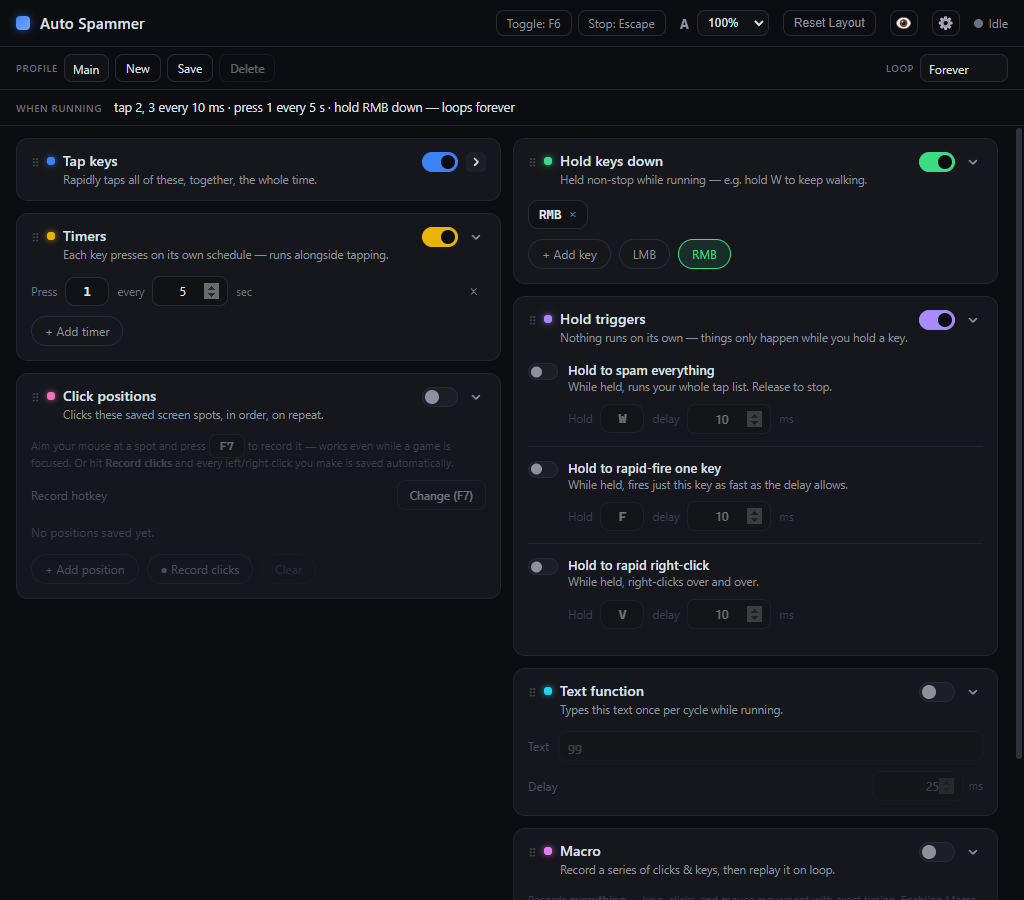
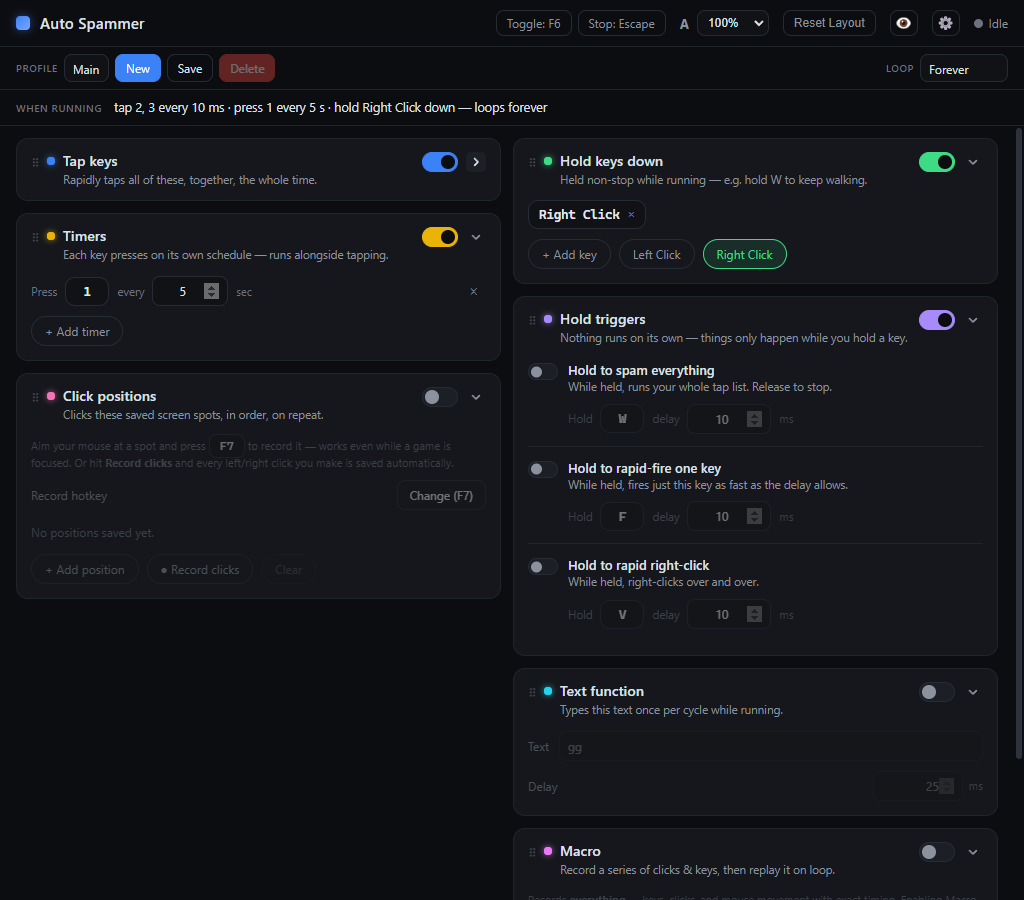
Tap keys checkboxes, Left/Right Click labels, colored profile buttons
- Removed the "Delay between taps" input and "One key at a time
  (sequence)" switch from Tap keys; the default delay (10 ms) and any
  saved sequence setting still apply internally.
- The Space / LMB / RMB quick-add chips are now labelled checkboxes
  (Space, Left Click, Right Click) that add/remove those from the tap
  list; state persists per profile as before.
- Renamed the LMB/RMB display labels to "Left Click" / "Right Click"
  app-wide (chips, key labels, summary bar, conflict messages) — the
  stored mouse-left/mouse-right values are unchanged, so saved profiles
  load as-is.
- Profile bar: New is now the blue primary button and Delete the red
  danger button.
- Bump to 1.34.0.

diff --git a/tests/e2e/app.spec.ts b/tests/e2e/app.spec.ts
@@ -89,29 +89,20 @@ test('Tap keys: seeded keys, adding a key updates the summary live', async () =>
   await expect(win.locator('.summarybar')).toContainText('R')
 })
 
-test('Tap keys: Space / LMB / RMB quick-add chips toggle and highlight', async () => {
+test('Tap keys: Space / Left Click / Right Click checkboxes add to the spam list', async () => {
   const keys = section('Tap keys')
-  for (const name of ['Space', 'LMB', 'RMB']) {
-    const chip = keys.getByRole('button', { name, exact: true })
-    await expect(chip).not.toHaveClass(/chipbtn--on/)
-    await chip.click()
-    await expect(chip).toHaveClass(/chipbtn--on/)
-    await chip.click()
-    await expect(chip).not.toHaveClass(/chipbtn--on/)
+  for (const name of ['Space', 'Left Click', 'Right Click']) {
+    const box = keys.locator('.check', { hasText: name }).locator('input')
+    await expect(box).not.toBeChecked()
+    await box.check()
+    await expect(win.locator('.summarybar')).toContainText(name)
+    await box.uncheck()
+    await expect(box).not.toBeChecked()
   }
-})
-
-test('Tap keys: delay + "One key at a time (sequence)" switch', async () => {
-  const keys = section('Tap keys')
-  const optionrow = keys.locator('.optionrow')
-  await expect(optionrow).toContainText('Delay between taps')
-  await expect(optionrow.locator('input[type="number"]')).toHaveValue('10')
-
-  const seq = optionrow.locator('.section__toggle input')
-  await expect(seq).not.toBeChecked()
-  await seq.check()
-  await expect(win.locator('.summarybar')).toContainText('one at a time')
-  await seq.uncheck()
+  // The old "Delay between taps" row and sequence switch are gone.
+  await expect(keys.locator('.optionrow')).toHaveCount(0)
+  await expect(keys.getByText('Delay between taps')).toHaveCount(0)
+  await expect(keys.getByText('One key at a time (sequence)')).toHaveCount(0)
 })
 
 test('Timers: + Add timer adds a Press/every row', async () => {
@@ -131,7 +122,7 @@ test('Timers: + Add timer adds a Press/every row', async () => {
   await expect(rows).toHaveCount(before)
 })
 
-test('Hold keys down: add-key row, LMB/RMB chips add and remove held buttons', async () => {
+test('Hold keys down: add-key row, Left/Right Click chips add and remove held buttons', async () => {
   const hold = section('Hold keys down')
   const rows = hold.locator('.keyrow')
   const before = await rows.count()
@@ -143,14 +134,15 @@ test('Hold keys down: add-key row, LMB/RMB chips add and remove held buttons', a
   await expect(newKey).toHaveValue('w')
   await expect(win.locator('.summarybar')).toContainText('hold W down')
 
-  // LMB quick chip adds a removable chip and highlights; clicking again removes.
-  const lmb = hold.getByRole('button', { name: 'LMB', exact: true })
+  // The Left Click quick chip adds a removable chip and highlights; clicking
+  // again removes it.
+  const lmb = hold.getByRole('button', { name: 'Left Click', exact: true })
   await lmb.click()
   await expect(lmb).toHaveClass(/chipbtn--on/)
-  await expect(hold.locator('.keychip--removable', { hasText: 'LMB' })).toBeVisible()
+  await expect(hold.locator('.keychip--removable', { hasText: 'Left Click' })).toBeVisible()
   await lmb.click()
   await expect(lmb).not.toHaveClass(/chipbtn--on/)
-  await expect(hold.locator('.keychip--removable', { hasText: 'LMB' })).toHaveCount(0)
+  await expect(hold.locator('.keychip--removable', { hasText: 'Left Click' })).toHaveCount(0)
 
   // Remove the added key row again.
   await rows.last().locator('.rowx').click()
@@ -245,6 +237,11 @@ test('the Profile toolbar is a dropdown with New / Save / Delete (no Rename)', a
     await expect(profile.getByRole('button', { name, exact: true })).toBeVisible()
   }
   await expect(profile.getByRole('button', { name: 'Rename', exact: true })).toHaveCount(0)
+  // New is the accent/primary action; Delete is the danger action.
+  await expect(profile.getByRole('button', { name: 'New', exact: true })).toHaveClass(/btn--primary/)
+  await expect(profile.getByRole('button', { name: 'Delete', exact: true })).toHaveClass(
+    /btn--danger/
+  )
   await expect(profile.locator('select option')).toContainText(['Default'])
 })
 

diff --git a/src/renderer/src/components/TapKeysCard.tsx b/src/renderer/src/components/TapKeysCard.tsx
@@ -80,55 +80,33 @@ export function TapKeysCard(): JSX.Element {
         >
           {recording ? '● Stop recording' : 'Record'}
         </button>
-        <button
-          type="button"
-          className={`chipbtn${o.spacebar ? ' chipbtn--on' : ''}`}
-          title="Also tap the spacebar"
-          onClick={() => patchOptions({ spacebar: !o.spacebar })}
-        >
-          Space
-        </button>
-        <button
-          type="button"
-          className={`chipbtn${o.leftClick ? ' chipbtn--on' : ''}`}
-          title="Also tap the left mouse button"
-          onClick={() => patchOptions({ leftClick: !o.leftClick })}
-        >
-          LMB
-        </button>
-        <button
-          type="button"
-          className={`chipbtn${o.rightClick ? ' chipbtn--on' : ''}`}
-          title="Also tap the right mouse button"
-          onClick={() => patchOptions({ rightClick: !o.rightClick })}
-        >
-          RMB
-        </button>
       </div>
 
-      <div className="optionrow">
-        <span className="optionrow__label">Delay between taps</span>
-        <input
-          className="input keyrow__delay"
-          type="number"
-          min={0}
-          value={o.defaultDelayMs}
-          onChange={(e) =>
-            patchOptions({ defaultDelayMs: Math.max(0, Number(e.target.value) || 0) })
-          }
-        />
-        <span className="keyrow__unit">ms</span>
-        <span className="optionrow__gap" />
-        <span className="switchlabel">
-          <SectionToggle
-            small
-            checked={o.sequenceMode}
-            onChange={(v) => patchOptions({ sequenceMode: v })}
-            label="One key at a time (sequence)"
-            title="Fire the keys one at a time instead of all together"
+      <div className="keylist__actions">
+        <label className="check" title="Also tap the spacebar">
+          <input
+            type="checkbox"
+            checked={o.spacebar}
+            onChange={(e) => patchOptions({ spacebar: e.target.checked })}
           />
-          <span>One key at a time (sequence)</span>
-        </span>
+          <span>Space</span>
+        </label>
+        <label className="check" title="Also tap the left mouse button">
+          <input
+            type="checkbox"
+            checked={o.leftClick}
+            onChange={(e) => patchOptions({ leftClick: e.target.checked })}
+          />
+          <span>Left Click</span>
+        </label>
+        <label className="check" title="Also tap the right mouse button">
+          <input
+            type="checkbox"
+            checked={o.rightClick}
+            onChange={(e) => patchOptions({ rightClick: e.target.checked })}
+          />
+          <span>Right Click</span>
+        </label>
       </div>
     </Section>
   )

diff --git a/src/renderer/src/styles.css b/src/renderer/src/styles.css
@@ -843,7 +843,7 @@ button.keychip:hover,
   flex-wrap: wrap;
 }
 
-/* Pill buttons: "+ Add key" and the Space / LMB / RMB quick-add chips. */
+/* Pill buttons: "+ Add key" and the Left/Right Click quick-add chips. */
 .chipbtn {
   padding: 6px 13px;
   border-radius: 999px;
@@ -873,39 +873,6 @@ button.keychip:hover,
   color: #ffb3ac;
   border-color: var(--red);
   animation: recording-pulse 1.1s ease-in-out infinite;
-}
-
-/* Bottom option row of the Tap keys card: delay + sequence switch. */
-.optionrow {
-  display: flex;
-  align-items: center;
-  gap: 8px;
-  flex-wrap: wrap;
-  margin-top: 2px;
-  padding-top: 12px;
-  border-top: 1px solid var(--border-soft);
-}
-.optionrow__label {
-  color: var(--text-dim);
-  font-size: 12.5px;
-  white-space: nowrap;
-}
-.optionrow__gap {
-  flex: 1 1 auto;
-}
-.optionrow .keyrow__delay {
-  flex-basis: 76px;
-}
-
-/* Labelled inline switch, e.g. "One key at a time (sequence)". */
-.switchlabel {
-  display: inline-flex;
-  align-items: center;
-  gap: 8px;
-  font-size: 12.5px;
-  color: var(--text-dim);
-  cursor: pointer;
-  white-space: nowrap;
 }
 
 /* ---------- Timers rows ---------- */

diff --git a/src/renderer/src/components/ProfileBar.tsx b/src/renderer/src/components/ProfileBar.tsx
@@ -28,7 +28,7 @@ export function ProfileBar(): JSX.Element {
       </select>
       <button
         type="button"
-        className="btn btn--ghost subbar__btn"
+        className="btn btn--primary subbar__btn"
         title="New profile"
         onClick={() => void createProfile('')}
       >
@@ -44,7 +44,7 @@ export function ProfileBar(): JSX.Element {
       </button>
       <button
         type="button"
-        className="btn btn--ghost subbar__btn"
+        className="btn btn--danger subbar__btn"
         title="Delete profile"
         disabled={data.profiles.length <= 1}
         onClick={() => void deleteProfile(activeProfile.id)}

diff --git a/src/renderer/src/components/SummaryBar.tsx b/src/renderer/src/components/SummaryBar.tsx
@@ -20,8 +20,8 @@ export function SummaryBar(): JSX.Element | null {
     const keys = [
       ...p.entries.map((e) => (e.kind === 'key' ? (e.key.trim() ? prettyName(e.key) : '') : prettyName(e.kind))),
       ...(p.options.spacebar ? ['Space'] : []),
-      ...(p.options.leftClick ? ['LMB'] : []),
-      ...(p.options.rightClick ? ['RMB'] : [])
+      ...(p.options.leftClick ? ['Left Click'] : []),
+      ...(p.options.rightClick ? ['Right Click'] : [])
     ].filter(Boolean)
     if (keys.length > 0) {
       const seq = p.options.sequenceMode ? ', one at a time' : ''

diff --git a/src/renderer/src/components/HoldKeysCard.tsx b/src/renderer/src/components/HoldKeysCard.tsx
@@ -91,7 +91,7 @@ export function HoldKeysCard(): JSX.Element {
           title="Hold the left mouse button"
           onClick={() => toggleMouse('mouse-left')}
         >
-          LMB
+          Left Click
         </button>
         <button
           type="button"
@@ -99,7 +99,7 @@ export function HoldKeysCard(): JSX.Element {
           title="Hold the right mouse button"
           onClick={() => toggleMouse('mouse-right')}
         >
-          RMB
+          Right Click
         </button>
       </div>
     </Section>

diff --git a/tests/unit/keycapture.test.ts b/tests/unit/keycapture.test.ts
@@ -46,8 +46,8 @@ describe('keycapture — prettyName', () => {
     expect(prettyName('-')).toBe('-')
     expect(prettyName('a')).toBe('A')
     expect(prettyName('numpad5')).toBe('Numpad 5')
-    expect(prettyName('mouse-left')).toBe('LMB')
-    expect(prettyName('mouse-right')).toBe('RMB')
+    expect(prettyName('mouse-left')).toBe('Left Click')
+    expect(prettyName('mouse-right')).toBe('Right Click')
     expect(prettyName('mouse-4')).toBe('MB4')
     expect(prettyName('mouse-5')).toBe('MB5')
   })

diff --git a/tests/unit/bindings.test.ts b/tests/unit/bindings.test.ts
@@ -82,7 +82,7 @@ describe('conflictMessage', () => {
 
   it('adapts the wording for mouse buttons', () => {
     expect(conflictMessage('mouse-left', 'Hold-to-Spam Key')).toBe(
-      'LMB is already bound to Hold-to-Spam Key'
+      'Left Click is already bound to Hold-to-Spam Key'
     )
     expect(conflictMessage('mouse-4', 'Focus Hold Key')).toBe(
       'MB4 is already bound to Focus Hold Key'

diff --git a/src/renderer/src/keycapture.ts b/src/renderer/src/keycapture.ts
@@ -139,8 +139,8 @@ export function toMouseName(e: MouseEvent): string | null {
 }
 
 const MOUSE_LABELS: Record<string, string> = {
-  'mouse-left': 'LMB',
-  'mouse-right': 'RMB',
+  'mouse-left': 'Left Click',
+  'mouse-right': 'Right Click',
   'mouse-middle': 'MMB',
   'mouse-4': 'MB4',
   'mouse-5': 'MB5'

diff --git a/src/shared/bindings.ts b/src/shared/bindings.ts
@@ -143,8 +143,8 @@ export function findBindingConflict(
 }
 
 const MOUSE_LABELS: Record<string, string> = {
-  'mouse-left': 'LMB',
-  'mouse-right': 'RMB',
+  'mouse-left': 'Left Click',
+  'mouse-right': 'Right Click',
   'mouse-middle': 'MMB',
   'mouse-4': 'MB4',
   'mouse-5': 'MB5'

diff --git a/README.md b/README.md
@@ -19,7 +19,7 @@
 
 <!-- DOWNLOAD BUTTONS -->
 <p align="center">
-  <a href="https://github.com/Scarmonit/AutoSpammer/releases/latest/download/AutoSpammer-Portable-1.33.0.exe">
+  <a href="https://github.com/Scarmonit/AutoSpammer/releases/latest/download/AutoSpammer-Portable-1.34.0.exe">
     <img src="https://img.shields.io/badge/Download%20Latest%20Version-Windows-3b82f6?style=for-the-badge&logo=windows&logoColor=white" alt="Download Latest Version (Windows)" height="46" />
   </a>
   &nbsp;
@@ -40,8 +40,8 @@ No setup or extra tools required — each option is a single file you just run.
 
 | Option | Best for | File |
 | --- | --- | --- |
-| **Portable** | Easiest — just run it. Nothing is installed. | **[AutoSpammer-Portable-1.33.0.exe](https://github.com/Scarmonit/AutoSpammer/releases/latest/download/AutoSpammer-Portable-1.33.0.exe)** |
-| **Installer** | Adds Desktop and Start-menu shortcuts. | **[AutoSpammer-Setup-1.33.0.exe](https://github.com/Scarmonit/AutoSpammer/releases/latest/download/AutoSpammer-Setup-1.33.0.exe)** |
+| **Portable** | Easiest — just run it. Nothing is installed. | **[AutoSpammer-Portable-1.34.0.exe](https://github.com/Scarmonit/AutoSpammer/releases/latest/download/AutoSpammer-Portable-1.34.0.exe)** |
+| **Installer** | Adds Desktop and Start-menu shortcuts. | **[AutoSpammer-Setup-1.34.0.exe](https://github.com/Scarmonit/AutoSpammer/releases/latest/download/AutoSpammer-Setup-1.34.0.exe)** |
 
 You can also open the **[latest release page](https://github.com/Scarmonit/AutoSpammer/releases/latest)** and grab either file under **Assets**.
 
@@ -68,7 +68,7 @@ You can also open the **[latest release page](https://github.com/Scarmonit/AutoS
 
 1. **Open Auto Spammer** from the Desktop or Start-menu shortcut.
 2. In **Tap keys**, type a key to repeat — for example `a`, `space`, `1`, `f6`, or `numpad5`. Add more with **+ Add key**, or click **Record** and press keys to capture them automatically.
-3. *(Optional)* Set the speed under **Delay between taps** — a lower number is faster (10 ms is very fast). Each key can have its own delay too.
+3. *(Optional)* Give any key its own delay in its row — a lower number is faster (the default is a very fast 10 ms).
 4. **Click into the game or app** you want the input sent to, so it is the active window.
 5. Press your **Toggle Hotkey** (default **F6**) anywhere — even while a game is focused — to start. The current hotkey is shown in the top bar; click it to rebind.
 6. To stop: press the **Toggle Hotkey** again, or hit **Esc** for an emergency stop. You can also Start/Stop from the system-tray menu.
@@ -92,12 +92,12 @@ You can also open the **[latest release page](https://github.com/Scarmonit/AutoS
 - **Independent enabling** — a switched-off card greys out (keeping its inner settings) and is skipped on the next run; switch it back on and everything resumes as it was.
 - **UI scale** — a top-bar dropdown zooms the whole app (100–200%) for readability; double-click to type a custom percentage.
 - **Remembers window size and position** — the app reopens exactly where and how big you left it.
-- **Mouse buttons everywhere** — every key binding accepts a keyboard key *or* a mouse button (LMB, RMB, MMB, MB4, MB5).
+- **Mouse buttons everywhere** — every key binding accepts a keyboard key *or* a mouse button (Left/Right Click, MMB, MB4, MB5).
 - **Hotkey conflict prevention** — a key or mouse button can only drive one action; duplicate bindings are rejected with a clear message.
 
 ### Core
 
-- **Tap any keys** — letters, digits, function keys, punctuation, and numpad, each with its own delay, together or one-at-a-time with the **sequence** switch.
+- **Tap any keys** — letters, digits, function keys, punctuation, and numpad, each with its own delay.
 - **Click positions** — move to and click exact screen spots (left or right) every cycle.
 - **Loop** — repeat forever, once, or a set number of times (in the header toolbar).
 - **Hold keys down** + **Hold triggers** — keys/buttons held for the whole run, plus three hold-to-act modes that run only while you physically hold their key or button.
@@ -133,7 +133,7 @@ You can also open the **[latest release page](https://github.com/Scarmonit/AutoS
 
 ### Tap keys
 
-The **Tap keys** card rapidly taps everything in its list, together, the whole time a run is active. Keys show as chips, each with its own optional delay. Use **+ Add key** (or **Record**), and the **Space** / **LMB** / **RMB** quick-add chips to include the spacebar or mouse buttons — a chip highlights while it's active. At the bottom: **Delay between taps** and the **One key at a time (sequence)** switch.
+The **Tap keys** card rapidly taps everything in its list, together, the whole time a run is active. Keys show as chips, each with its own optional delay. Use **+ Add key** (or **Record**) to build the list, and check **Space**, **Left Click**, or **Right Click** to include the spacebar or a mouse button — uncheck to stop tapping it. The checkboxes are saved with the profile.
 
 ### Timers
 
@@ -141,7 +141,7 @@ The **Timers** card presses each key or mouse button on its **own schedule** (e.
 
 ### Hold keys down
 
-Keys *or* mouse buttons held down non-stop while running (not tapped), e.g. hold **W** to keep walking. Use **+ Add key**, or the **LMB** / **RMB** chips to toggle a mouse button in and out of the held list.
+Keys *or* mouse buttons held down non-stop while running (not tapped), e.g. hold **W** to keep walking. Use **+ Add key**, or the **Left Click** / **Right Click** chips to toggle a mouse button in and out of the held list.
 
 ### Hold triggers
 
@@ -153,7 +153,7 @@ Nothing in this card runs on its own — things only happen **while you physical
 
 ### The WHEN RUNNING summary bar
 
-Under the profile row, the **WHEN RUNNING** bar describes your current setup in plain English — e.g. *"tap 2, 3 every 10 ms · press 1 every 5 s · hold RMB down — loops forever"*. It updates live as you change settings and only includes cards that are switched on. Hide it (or the hint text under each card title) from **Options → Display**.
+Under the profile row, the **WHEN RUNNING** bar describes your current setup in plain English — e.g. *"tap 2, 3 every 10 ms · press 1 every 5 s · hold Right Click down — loops forever"*. It updates live as you change settings and only includes cards that are switched on. Hide it (or the hint text under each card title) from **Options → Display**.
 
 ### Every card has its own switch
 
@@ -198,8 +198,7 @@ All layout choices — sizes, collapsed state, hidden state, and order — are s
 
 ### Handy extras
 
-- **Space / LMB / RMB quick chips** — add those to the tap list without typing.
-- **One key at a time (sequence)** — fire your keys one at a time per cycle instead of all at once.
+- **Space / Left Click / Right Click checkboxes** — add those to the tap list without typing.
 - **Profiles** — save different setups and switch between them; they persist across restarts.
 - **Options → Display** — hide the hint text and/or the WHEN RUNNING summary bar for a denser UI.
 
